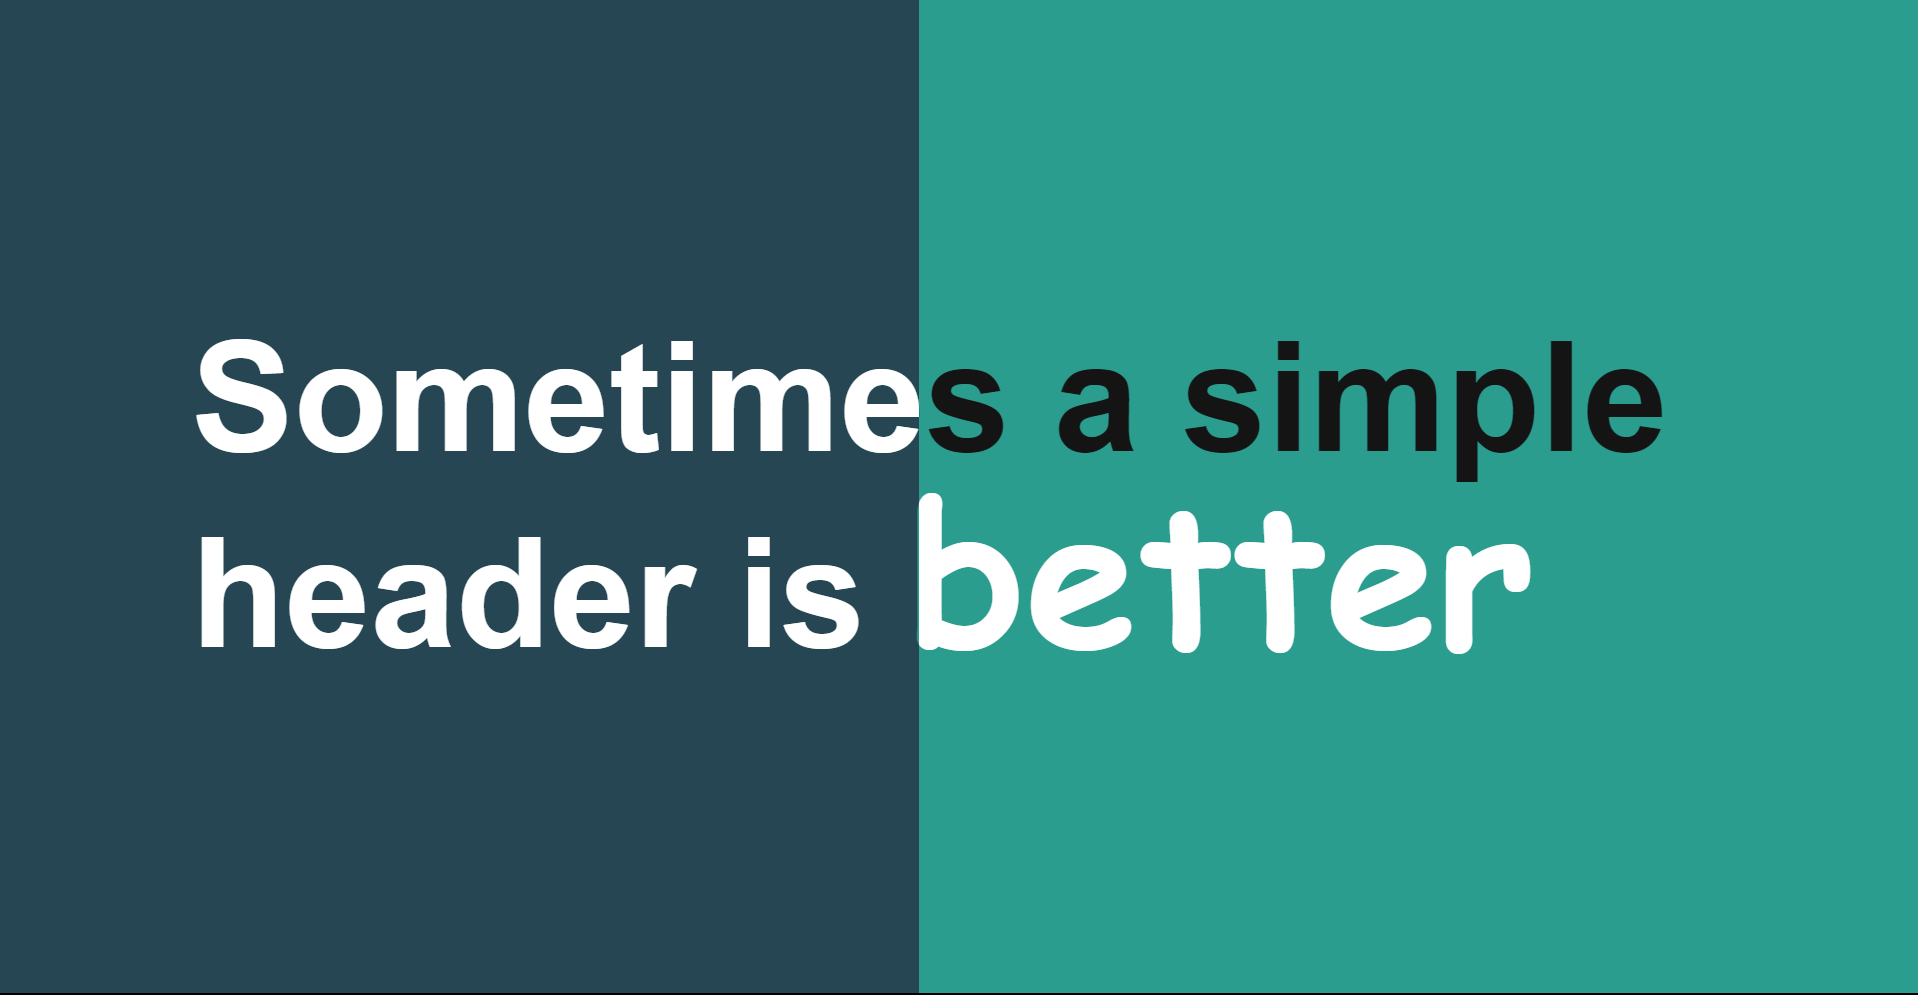
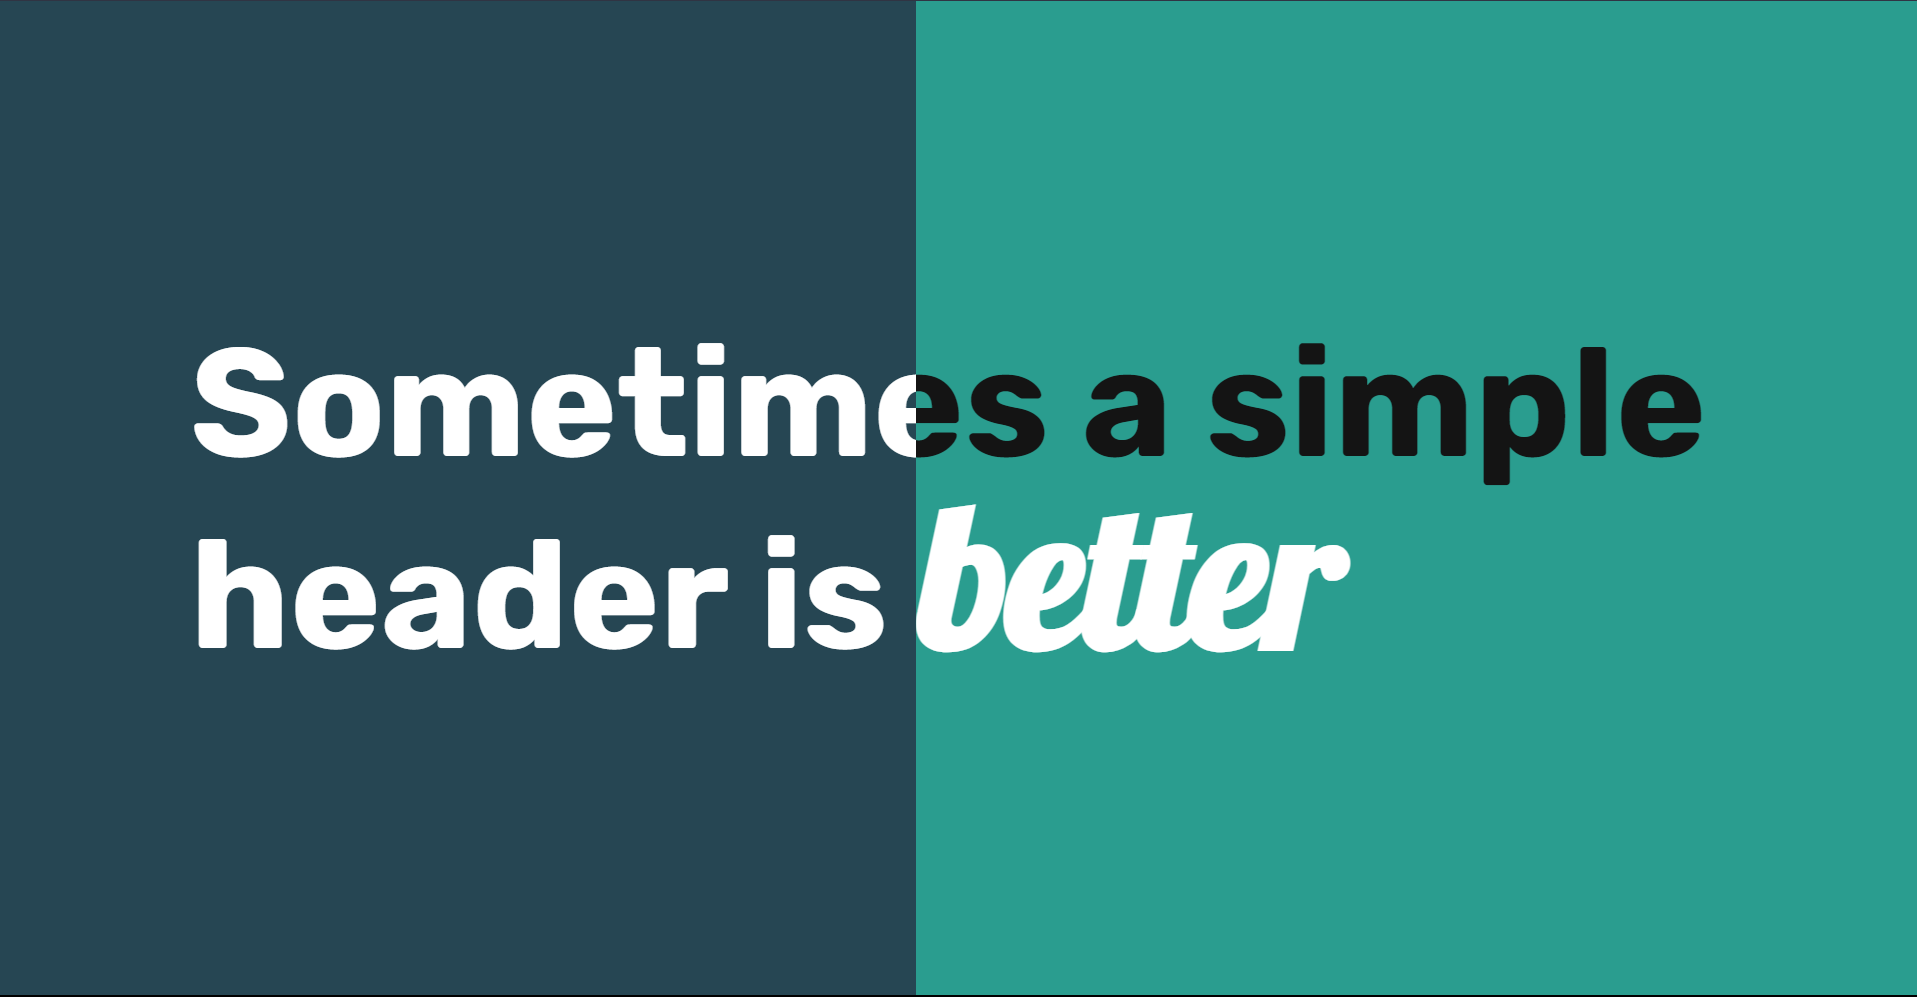
Add fonts in super slider

Changed region(s): [[0.0923, 0.3427, 0.8925, 0.4985], [0.0923, 0.4985, 0.8002, 0.6543]]

diff --git a/static/css/superslider.css b/static/css/superslider.css
@@ -1,3 +1,5 @@
+@import url("https://fonts.googleapis.com/css2?family=Lobster&family=Rubik:wght@300;400;500;700&display=swap");
+
 :root {
   --dark: rgb(20, 20, 20);
   --yellow: rgb(253, 216, 53);
